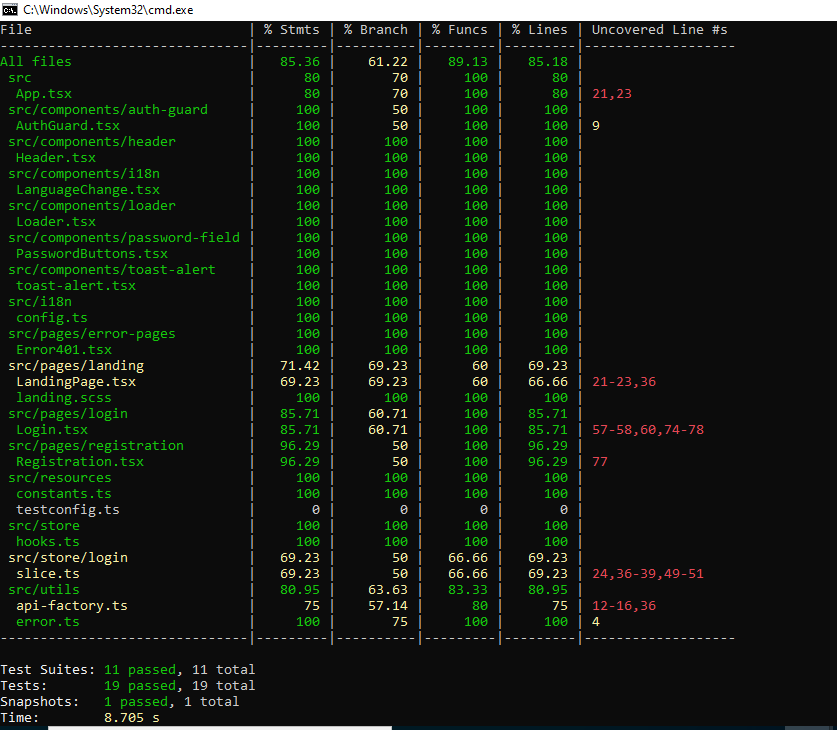
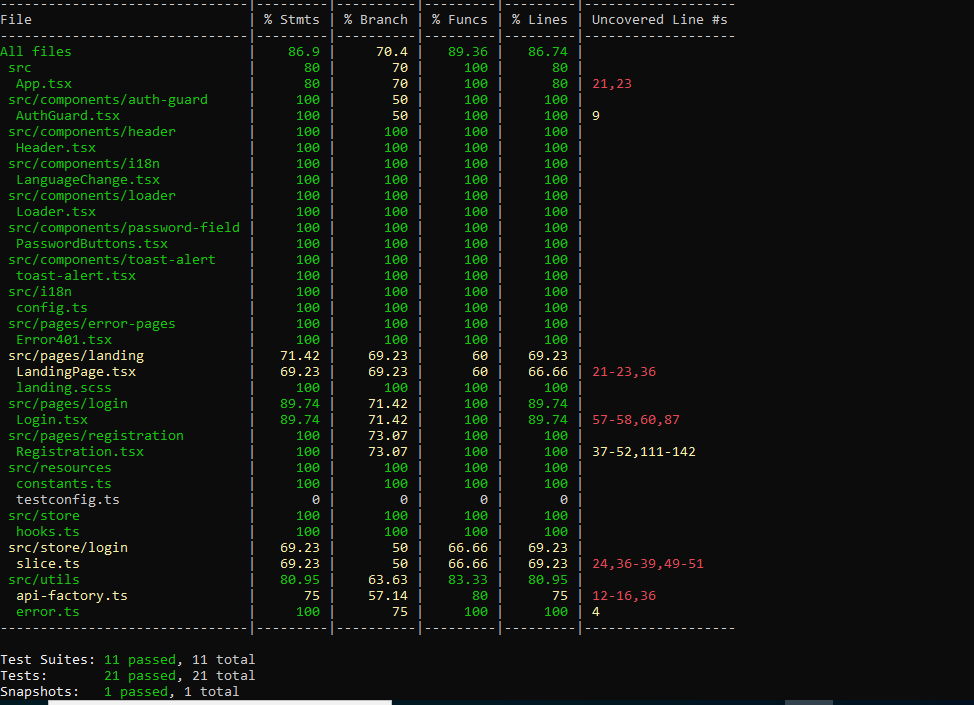
increased codecoverage

diff --git a/src/pages/login/Login.test.tsx b/src/pages/login/Login.test.tsx
@@ -36,7 +36,6 @@ it("render the input fields", () => {
   fireEvent.change(passwordBox, { target: { value: "deepthi@123" } });
   expect(screen.getByTestId("password-input")).toHaveValue("deepthi@123");
 });
-
 it("render the buttons", () => {
   render(
     <BrowserRouter>
@@ -51,4 +50,23 @@ it("render the buttons", () => {
   const keepSignedInBtn = screen.getByTestId("keep-signed-in");
   expect(keepSignedInBtn).toBeInTheDocument();
   fireEvent.click(keepSignedInBtn);
+});
+
+it("form should be submitted", () => {
+  render(
+    <BrowserRouter>
+      <Provider store={store}>
+        <Login />
+      </Provider>
+    </BrowserRouter>
+  );
+
+  const emailBox = screen.getByTestId("email-input");
+  fireEvent.change(emailBox, { target: { value: "deepthi@gmail.com" } });
+
+  const passwordBox = screen.getByTestId("password-input");
+  fireEvent.change(passwordBox, { target: { value: "deepthi@123" } });
+
+  const LoginBtn = screen.getByTestId("signin-button");
+  fireEvent.click(LoginBtn);
 });

diff --git a/src/pages/registration/Registration.test.tsx b/src/pages/registration/Registration.test.tsx
@@ -59,3 +59,23 @@ it("if submit button and cancel button renders", () => {
   expect(submitBtn).toBeInTheDocument();
   fireEvent.click(submitBtn);
 });
+it("form should be submitted", () => {
+  render(
+    <BrowserRouter>
+      <Provider store={store}>
+        <Registration />
+      </Provider>
+    </BrowserRouter>
+  );
+  const nameBox = screen.getByTestId("username-input");
+  fireEvent.change(nameBox, { target: { value: "deepthi" } });
+
+  const emailBox = screen.getByTestId("email-input");
+  fireEvent.change(emailBox, { target: { value: "deepthi@gmail.com" } });
+
+  const passwordBox = screen.getByTestId("password-input");
+  fireEvent.change(passwordBox, { target: { value: "deepthi@123" } });
+
+  const LoginBtn = screen.getByTestId("signup-button");
+  fireEvent.click(LoginBtn);
+});
